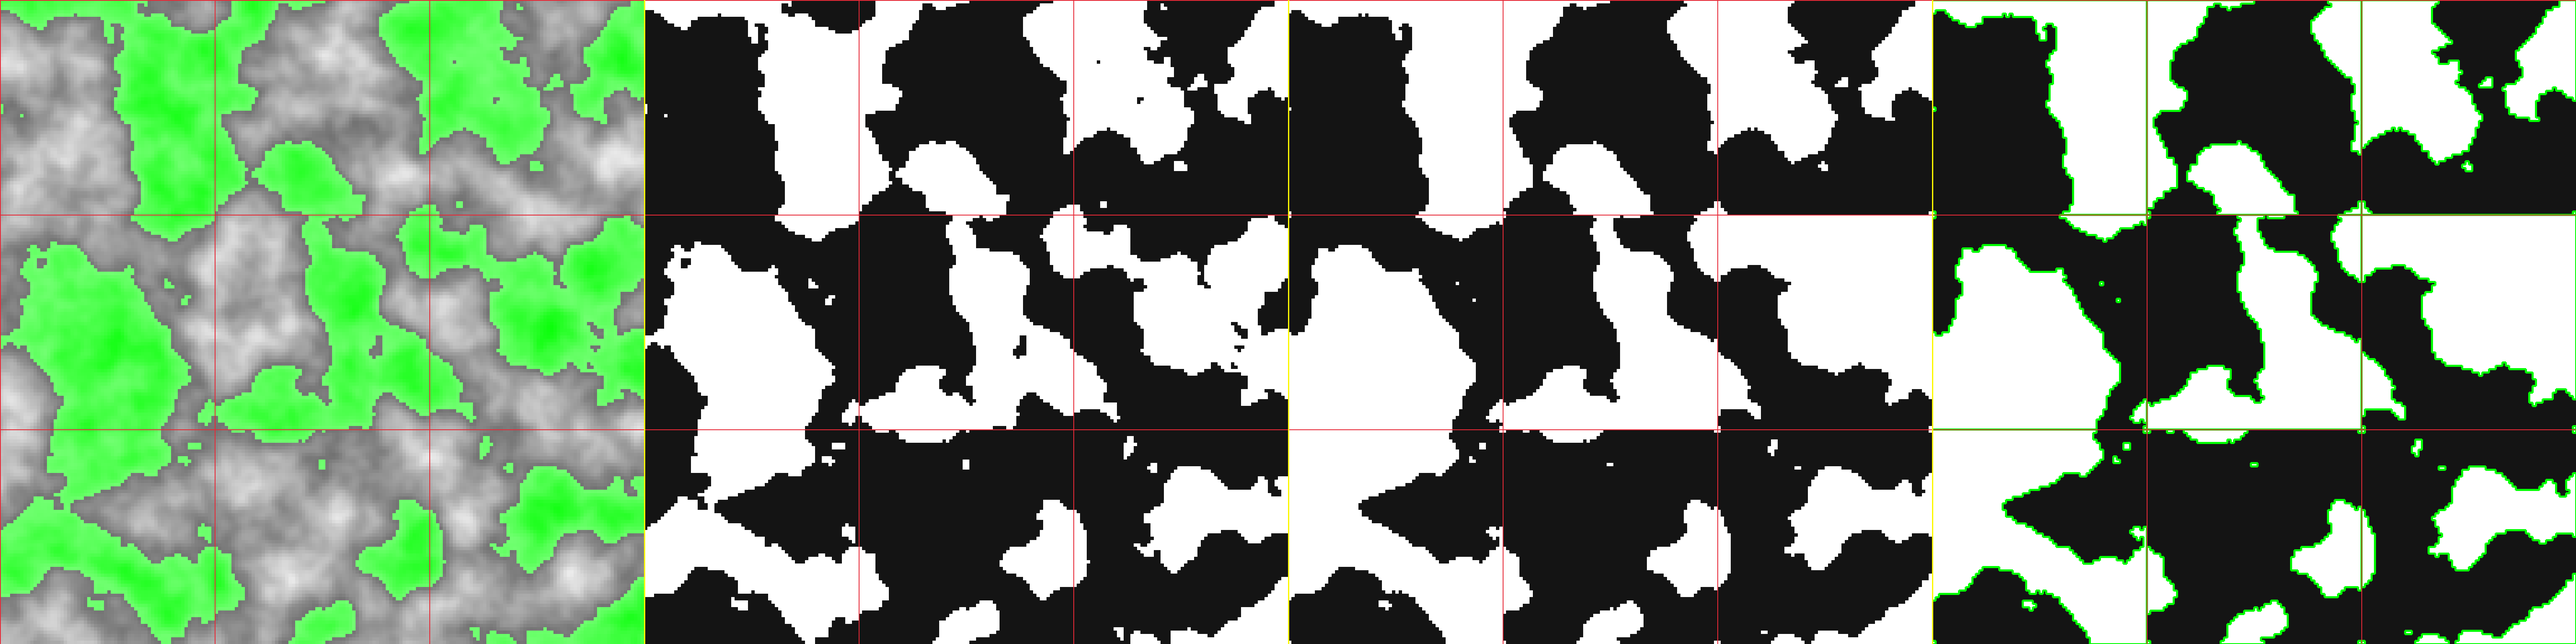
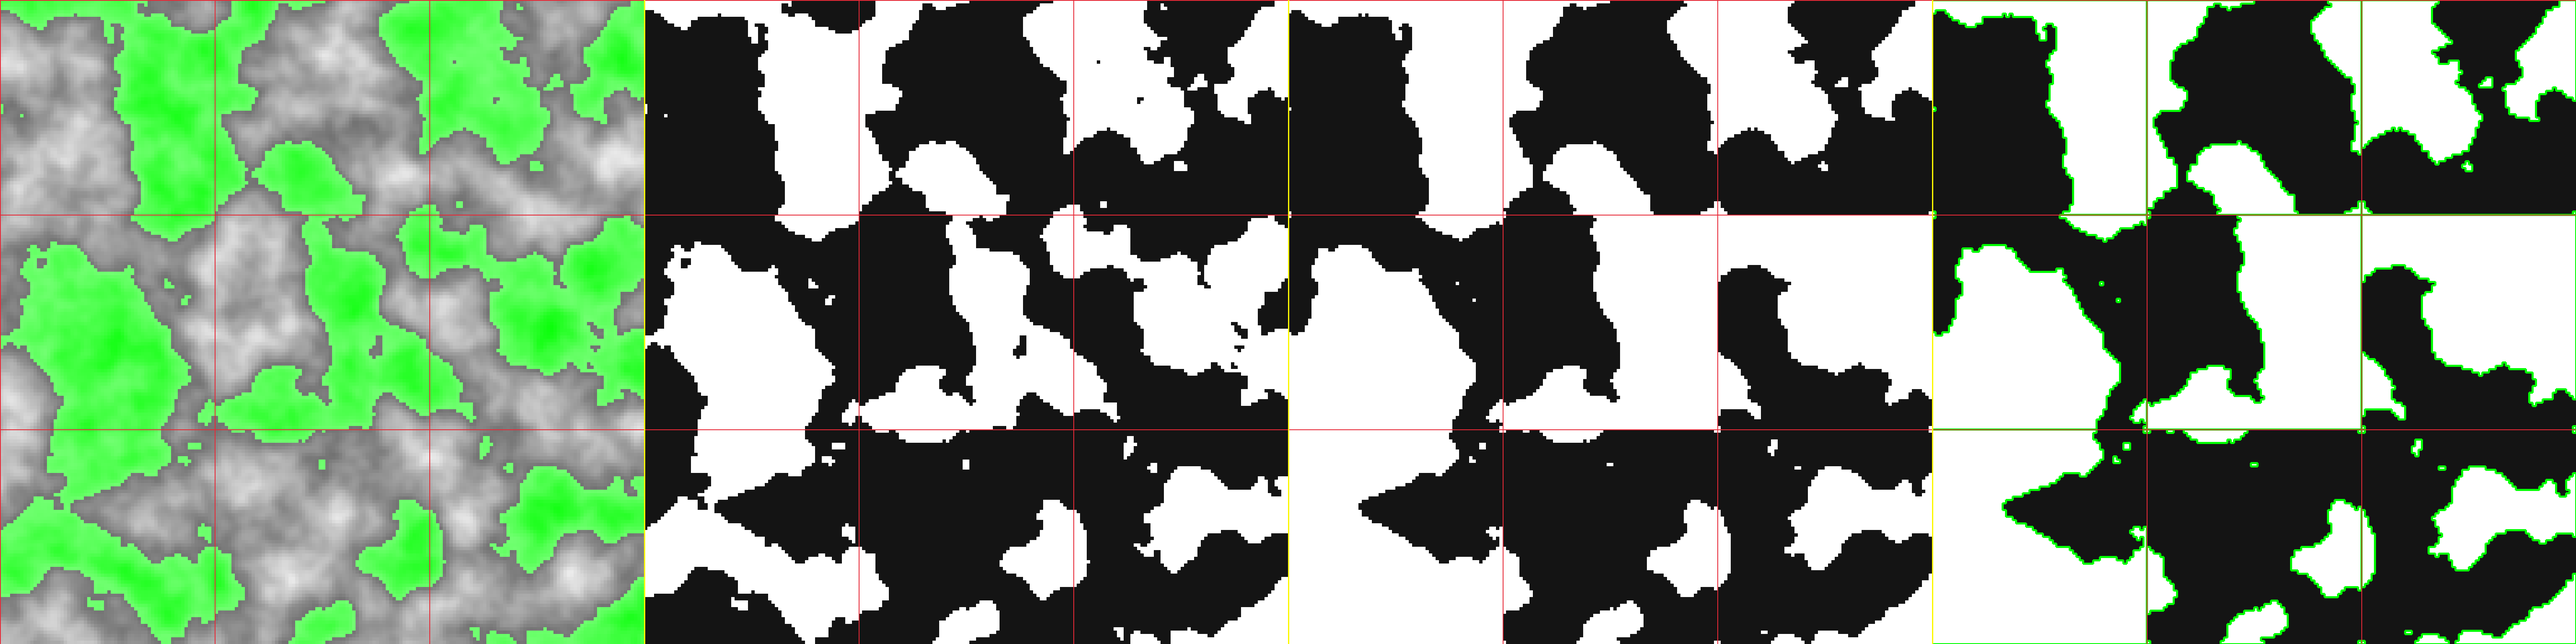
fix hollows(try1)

diff --git a/Cavetronic/Generation/CellularAutomata.cs b/Cavetronic/Generation/CellularAutomata.cs
@@ -1,8 +1,8 @@
 namespace Cavetronic.Generation;
 
 public static class CellularAutomata {
-  // Сглаживание + опционально заполнение маленьких пустот
-  public static bool[,] Smooth(bool[,] grid, int iterations, int solidThreshold, int maxVoidSize = 0) {
+  // Сглаживание + опционально заполнение изолированных пустот
+  public static bool[,] Smooth(bool[,] grid, int iterations, int solidThreshold, bool fillIsolatedVoids = false) {
     var width = grid.GetLength(0);
     var height = grid.GetLength(1);
     var result = (bool[,])grid.Clone();
@@ -21,34 +21,43 @@ public static class CellularAutomata {
       result = temp;
     }
 
-    // "Задушить" маленькие пустоты после сглаживания
-    if (maxVoidSize > 0) {
-      result = FillSmallVoids(result, maxVoidSize);
+    // "Задушить" пустоты, которые не касаются границ чанка
+    if (fillIsolatedVoids) {
+      result = FillEnclosedVoids(result);
     }
 
     return result;
   }
 
-  // "Задушить" маленькие пустоты - все empty острова меньше заданного размера
-  private static bool[,] FillSmallVoids(bool[,] grid, int maxVoidSize) {
+  // "Задушить" маленькие пустоты - оставляем только топ-2 самые большие
+  private static bool[,] FillEnclosedVoids(bool[,] grid) {
     var width = grid.GetLength(0);
     var height = grid.GetLength(1);
     var result = (bool[,])grid.Clone();
     var visited = new bool[width, height];
+    var allIslands = new List<List<(int x, int y)>>();
 
     // Находим все empty острова
     for (int x = 0; x < width; x++) {
       for (int y = 0; y < height; y++) {
         if (!result[x, y] && !visited[x, y]) {
-          // Нашли новый empty остров
           var island = FloodFillEmptyIsland(result, visited, x, y);
+          allIslands.Add(island);
+        }
+      }
+    }
 
-          // Если остров слишком маленький - заполняем его
-          if (island.Count <= maxVoidSize) {
-            foreach (var (ix, iy) in island) {
-              result[ix, iy] = true;
-            }
-          }
+    // Если островов 1 или меньше - ничего не делаем
+    if (allIslands.Count <= 1) return result;
+
+    // Оставляем только самый большой остров (основная пещера)
+    var largestIsland = allIslands.OrderByDescending(i => i.Count).First();
+
+    // Заполняем все остальные острова
+    foreach (var island in allIslands) {
+      if (island != largestIsland) {
+        foreach (var (ix, iy) in island) {
+          result[ix, iy] = true;
         }
       }
     }

diff --git a/Cavetronic/Generation/CaveGenerationSystem.cs b/Cavetronic/Generation/CaveGenerationSystem.cs
@@ -40,8 +40,8 @@ public class CaveGenerationSystem(GameWorld gameWorld) : EcsSystem(gameWorld) {
     // 2. Конвертация в boolean grid
     var grid = _noiseGenerator.GenerateGrid(startX, startY, gridSize, gridSize, _config.Threshold);
 
-    // 3. Сглаживание через Cellular Automata + заполнение маленьких пустот
-    var smoothedGrid = CellularAutomata.Smooth(grid, _config.SmoothIterations, _config.SolidNeighborThreshold, maxVoidSize: 500);
+    // 3. Сглаживание через Cellular Automata + заполнение изолированных пустот
+    var smoothedGrid = CellularAutomata.Smooth(grid, _config.SmoothIterations, _config.SolidNeighborThreshold, fillIsolatedVoids: true);
 
     // 4. Извлечение островов (простой алгоритм - прямоугольные контуры)
     var islandContours = SimpleIslandTracer.ExtractIslands(smoothedGrid, _config.CellSize);
